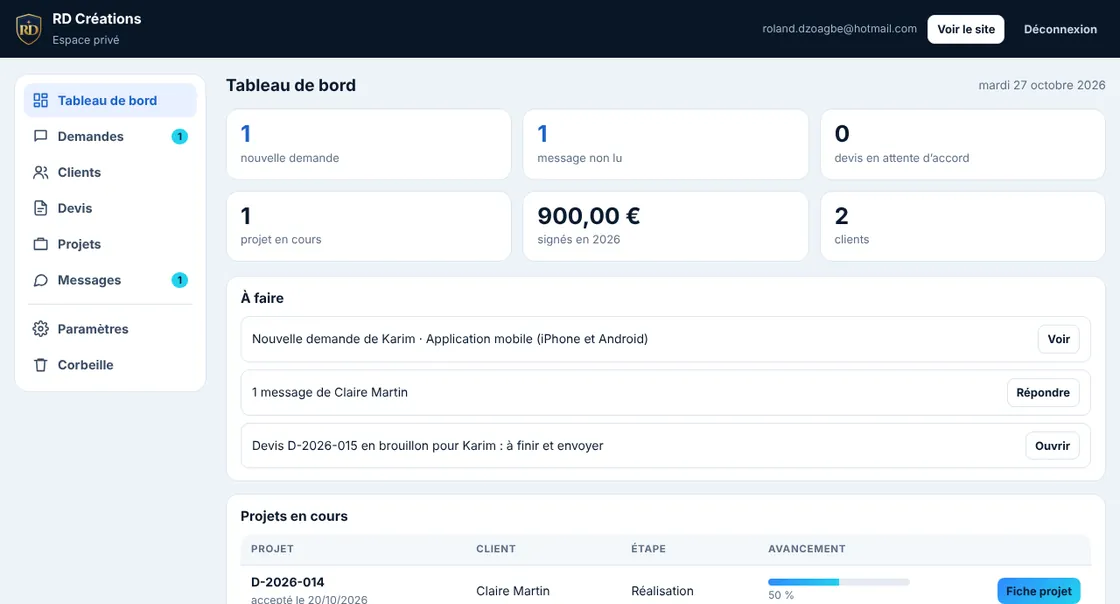
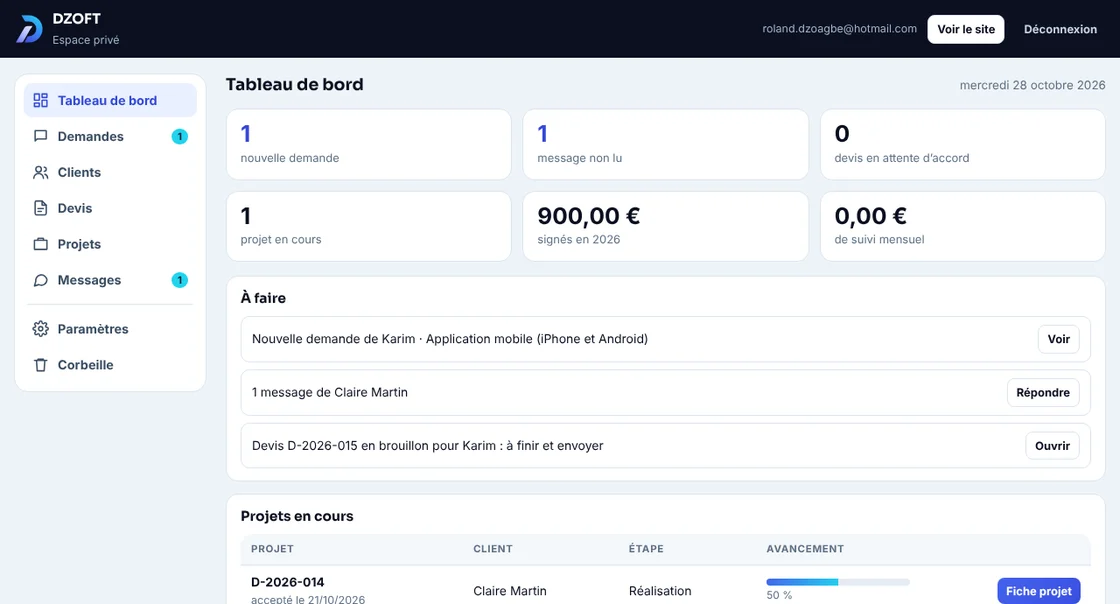
Retake client space and dashboard screenshots with the DZOFT name
Claude-Session: https://claude.ai/code/session_01Dpb5izMjNtg1wdiTyKXYn5

diff --git a/realisations.html b/realisations.html
@@ -344,8 +344,8 @@ footer details p{color:#8fa3b8;font-size:13.5px;padding:0 16px 14px}
 
     <article class="case" id="rd-creations">
       <figure class="shots">
-        <div class="frame"><img src="assets/realisations/espace-client.webp" width="1120" height="604" alt="Espace client DZOFT : avancement d’un projet étape par étape" loading="lazy" decoding="async"></div>
-        <div class="frame"><img src="assets/realisations/admin.webp" width="1120" height="604" alt="Tableau de bord DZOFT : nouvelles demandes, messages et projets en cours" loading="lazy" decoding="async"></div>
+        <div class="frame"><img src="assets/realisations/espace-client.webp?v=2" width="1120" height="604" alt="Espace client DZOFT : avancement d’un projet étape par étape" loading="lazy" decoding="async"></div>
+        <div class="frame"><img src="assets/realisations/admin.webp?v=2" width="1120" height="604" alt="Tableau de bord DZOFT : nouvelles demandes, messages et projets en cours" loading="lazy" decoding="async"></div>
         <figcaption>Captures avec des données de démonstration.</figcaption>
       </figure>
       <div>
